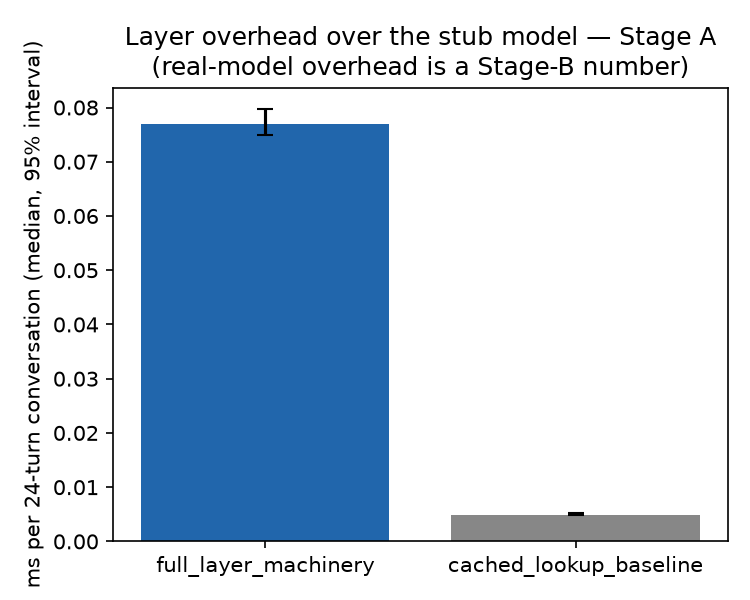
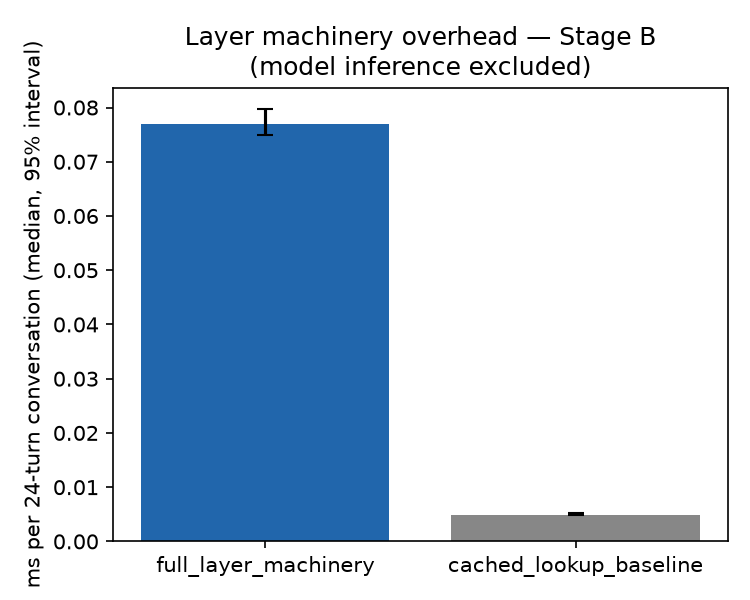
feat(paper): full Truth_v1 manuscript with Stage-A/B results reported as measured boundaries
Canonical Truth_v1.tex (series article preamble) + Truth.bib (40
entries, all live-verified and retraction-screened in the 2026-07-11
lit review; every entry cited, no orphans). 11 pages, ~3.8k words
LaTeX-stripped incl. captions (cap 10k); abstract 225 words.

Reports honestly per the no-relabeling rule: Stage-A instrument checks
all pass; Stage-B on pinned Qwen2.5-0.5B: auditability 42/42,
correction discrimination 0.88/0.42, capability equivalence
(+0.018 in +/-0.05) PASS; C2/C3/C4 pre-registered margins FAIL with
anchor-degeneracy and deterministic-decoding analyses labeled
exploratory; C5 hand-off explicitly not discharged.

Also: plot.py stage-label fix (Stage-B figures previously carried
'Stage A' titles), figures regenerated. Two [TODO-cite: Paper 0]
markers remain pending Paper 0's arXiv posting; arXiv bundle prep
blocked on them by design.

Clean-state compile: 0 errors, 0 undefined refs, 0 Overfull, 0 bibtex
warnings.

Changed region(s): [[0.1533, 0.03, 0.9507, 0.15]]

diff --git a/scripts/plot.py b/scripts/plot.py
@@ -25,13 +25,14 @@ def _read(path: Path) -> list[dict]:
 
 
 def make_figures(results: Path) -> None:
-    _fig1_reliability(results)
-    _fig2_consistency(results)
-    _fig3_assertions(results)
-    _fig4_overhead(results)
+    label = "Stage B" if "stageb" in str(results) else "Stage A"
+    _fig1_reliability(results, label)
+    _fig2_consistency(results, label)
+    _fig3_assertions(results, label)
+    _fig4_overhead(results, label)
 
 
-def _fig1_reliability(results: Path) -> None:
+def _fig1_reliability(results: Path, label: str) -> None:
     rows = _read(results / "fidelity_bins.csv")
     modes = sorted({r["extractor_mode"] for r in rows} - {"combined"})[:2]
     fig, axes = plt.subplots(1, 2, figsize=(9, 4), sharey=True)
@@ -49,13 +50,13 @@ def _fig1_reliability(results: Path) -> None:
         ax.set_ylim(0, 1)
     axes[0].set_ylabel("empirical accuracy")
     axes[0].legend(fontsize=8)
-    fig.suptitle("Expression fidelity (C2): reliability over expression categories — Stage A")
+    fig.suptitle(f"Expression fidelity (C2): reliability over expression categories — {label}")
     fig.tight_layout()
     fig.savefig(results / "fig1_reliability.png", dpi=150)
     plt.close(fig)
 
 
-def _fig2_consistency(results: Path) -> None:
+def _fig2_consistency(results: Path, label: str) -> None:
     rows = _read(results / "consistency.csv")
     fig, ax = plt.subplots(figsize=(7, 4))
     arms = [r["arm"] for r in rows]
@@ -65,14 +66,14 @@ def _fig2_consistency(results: Path) -> None:
     ax.bar(arms, vals, yerr=[err_lo, err_hi], capsize=3,
            color=[ARM_COLORS[a] for a in arms])
     ax.set_ylabel("self-contradiction rate (unacknowledged REASK flips)")
-    ax.set_title("Revision & consistency (C3) — Stage A; store arms vs stateless")
+    ax.set_title(f"Revision & consistency (C3) — {label}; store arms vs stateless")
     ax.tick_params(axis="x", rotation=30)
     fig.tight_layout()
     fig.savefig(results / "fig2_consistency.png", dpi=150)
     plt.close(fig)
 
 
-def _fig3_assertions(results: Path) -> None:
+def _fig3_assertions(results: Path, label: str) -> None:
     rows = _read(results / "assertions.csv")
     fig, axes = plt.subplots(1, 2, figsize=(10, 4))
     arms = [r["arm"] for r in rows]
@@ -93,13 +94,13 @@ def _fig3_assertions(results: Path) -> None:
     axes[1].set_xticklabels(arms, rotation=30)
     axes[1].set_title("the trade is reported: coverage vs accuracy")
     axes[1].legend(fontsize=8)
-    fig.suptitle("Provenance gating (C4) — Stage A")
+    fig.suptitle(f"Provenance gating (C4) — {label}")
     fig.tight_layout()
     fig.savefig(results / "fig3_assertions.png", dpi=150)
     plt.close(fig)
 
 
-def _fig4_overhead(results: Path) -> None:
+def _fig4_overhead(results: Path, label: str) -> None:
     rows = [r for r in _read(results / "overhead.csv") if r["ci_lo"]]
     fig, ax = plt.subplots(figsize=(5, 4))
     names = [r["config"] for r in rows]
@@ -108,7 +109,7 @@ def _fig4_overhead(results: Path) -> None:
     err_hi = [max(0.0, float(r["ci_hi"]) - v) for v, r in zip(vals, rows)]
     ax.bar(names, vals, yerr=[err_lo, err_hi], capsize=4, color=["#2166ac", "#878787"])
     ax.set_ylabel("ms per 24-turn conversation (median, 95% interval)")
-    ax.set_title("Layer overhead over the stub model — Stage A\n(real-model overhead is a Stage-B number)")
+    ax.set_title(f"Layer machinery overhead — {label}\n(model inference excluded)")
     fig.tight_layout()
     fig.savefig(results / "fig4_overhead.png", dpi=150)
     plt.close(fig)
